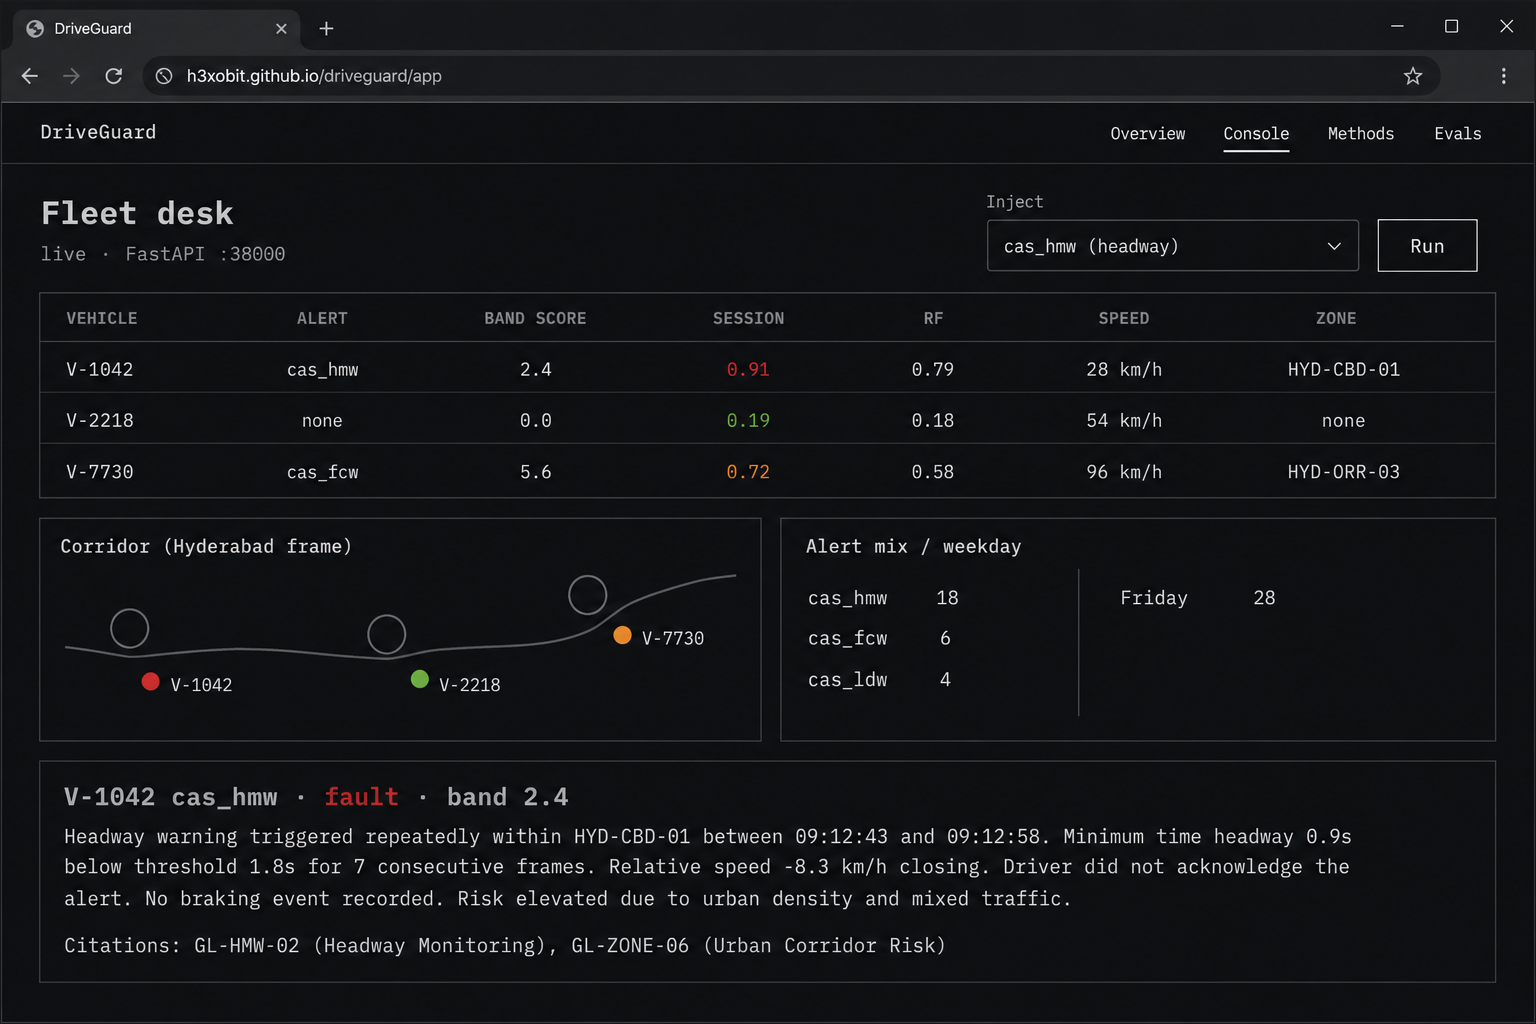
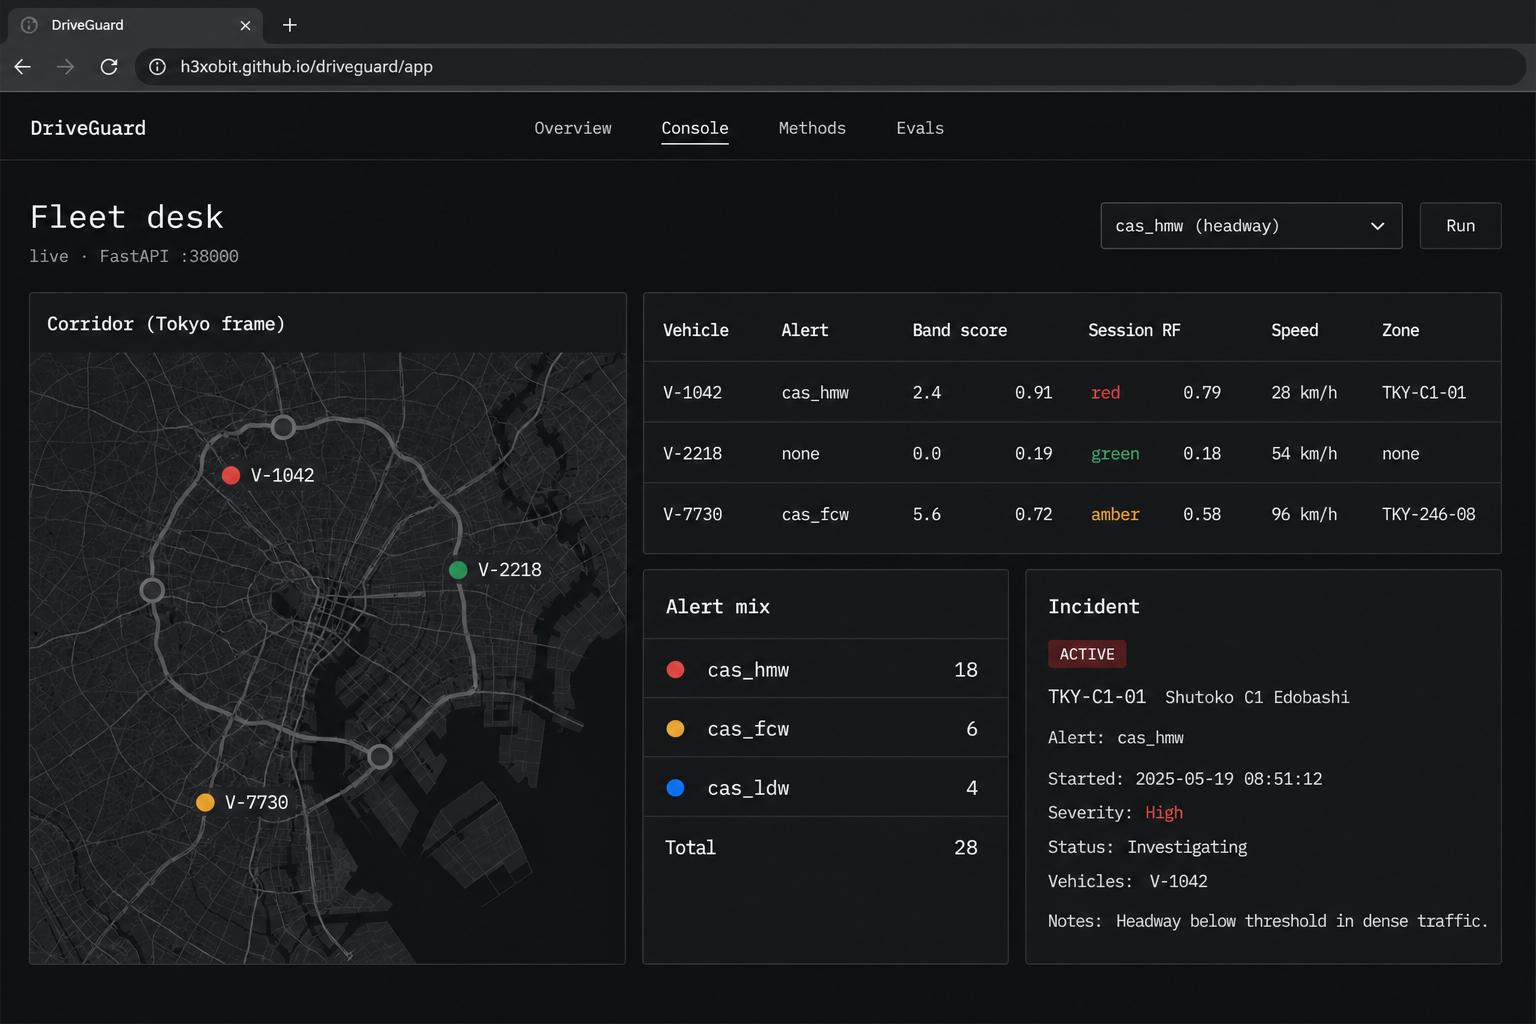
Point the demo corridor at Tokyo.

diff --git a/web/lib/demo-data.ts b/web/lib/demo-data.ts
@@ -39,14 +39,14 @@ export const DEMO_VEHICLES: VehicleScore[] = [
     fused: 0.91,
     baseline_rf: 0.79,
     compounding: true,
-    nearest_zone: "HYD-CBD-01",
+    nearest_zone: "TKY-C1-01",
     severity: "fault",
     behavior: "harsh_braking",
     alert: "cas_hmw",
     alert_score: 2.4,
     source: "cas",
-    lat: 17.386,
-    lon: 78.487,
+    lat: 35.684,
+    lon: 139.775,
     speed_kmh: 28,
   },
   {
@@ -62,8 +62,8 @@ export const DEMO_VEHICLES: VehicleScore[] = [
     alert: "none",
     alert_score: 0,
     source: "cas",
-    lat: 17.401,
-    lon: 78.41,
+    lat: 35.690,
+    lon: 139.710,
     speed_kmh: 54,
   },
   {
@@ -73,22 +73,22 @@ export const DEMO_VEHICLES: VehicleScore[] = [
     fused: 0.72,
     baseline_rf: 0.58,
     compounding: true,
-    nearest_zone: "HYD-ORR-03",
+    nearest_zone: "TKY-246-08",
     severity: "warn",
     behavior: "speeding",
     alert: "cas_fcw",
     alert_score: 5.6,
     source: "cas",
-    lat: 17.4,
-    lon: 78.355,
+    lat: 35.666,
+    lon: 139.720,
     speed_kmh: 96,
   },
 ];
 
 export const DEMO_ZONES = [
-  { zone_id: "HYD-NH44-12", lat: 17.312, lon: 78.474, historical_risk: 0.82, name: "NH44 merge" },
-  { zone_id: "HYD-ORR-03", lat: 17.401, lon: 78.352, historical_risk: 0.71, name: "ORR west" },
-  { zone_id: "HYD-CBD-01", lat: 17.385, lon: 78.486, historical_risk: 0.64, name: "Central arterial" },
+  { zone_id: "TKY-C1-01", lat: 35.683, lon: 139.776, historical_risk: 0.82, name: "Shutoko C1, Edobashi" },
+  { zone_id: "TKY-246-08", lat: 35.665, lon: 139.718, historical_risk: 0.71, name: "Route 246, Aoyama" },
+  { zone_id: "TKY-K3-04", lat: 35.658, lon: 139.701, historical_risk: 0.64, name: "Shutoko K3, Shibuya" },
 ];
 
 export const DEMO_STATS = {
@@ -106,14 +106,14 @@ export const DEMO_INCIDENTS: IncidentRow[] = [
     alert: "cas_hmw",
     alert_score: 2.4,
     summary:
-      "V-1042 cas_hmw (speed-band score 2.4, session risk 0.91) in mapped corridor HYD-CBD-01. headway warning (cas_hmw) with short following distance. Live kinematics and a historical hotspot fired together. Citations: GL-HMW-02, GL-ZONE-06.",
+      "V-1042 cas_hmw (speed-band score 2.4, session risk 0.91) in mapped corridor TKY-C1-01. headway warning (cas_hmw) with short following distance. Live kinematics and a historical hotspot fired together. Citations: GL-HMW-02, GL-ZONE-06.",
     recommended_action: "Increase following distance; review the last HMW cluster on this vehicle.",
     citations: [
       { section_id: "GL-HMW-02", title: "Headway warning (cas_hmw)" },
       { section_id: "GL-ZONE-06", title: "Historical hotspots" },
     ],
-    lat: 17.386,
-    lon: 78.487,
+    lat: 35.684,
+    lon: 139.775,
   },
 ];
 

diff --git a/web/app/app/page.tsx b/web/app/app/page.tsx
@@ -19,10 +19,10 @@ const INJECT = [
 ] as const;
 
 function project(lat: number, lon: number) {
-  const lat0 = 17.32;
-  const lon0 = 78.33;
-  const x = (lon - lon0) * 1800;
-  const y = (17.44 - lat) * 1800;
+  const lat0 = 35.645;
+  const lon0 = 139.685;
+  const x = (lon - lon0) * 2200;
+  const y = (35.745 - lat) * 2200;
   return { x, y };
 }
 
@@ -195,7 +195,7 @@ export default function ConsolePage() {
 
       <div className="grid gap-8 lg:grid-cols-2">
         <section>
-          <h2 className="text-sm text-zinc-200">Corridor (Hyderabad frame)</h2>
+          <h2 className="text-sm text-zinc-200">Corridor (Tokyo frame)</h2>
           <svg viewBox="0 0 280 220" className="mt-3 h-56 w-full border border-ink-line bg-ink-surface">
             {zones.map((z) => {
               const p = project(z.lat, z.lon);

diff --git a/tests/test_priority.py b/tests/test_priority.py
@@ -10,8 +10,8 @@ def test_fault_hides_info_rows() -> None:
         behavior=BehaviorTag.speeding,
         summary="fcw event",
         recommended_action="slow down",
-        lat=17.3,
-        lon=78.4,
+        lat=35.68,
+        lon=139.77,
         alert_score=4.2,
     )
     info = Incident(
@@ -21,8 +21,8 @@ def test_fault_hides_info_rows() -> None:
         behavior=BehaviorTag.calm,
         summary="quiet",
         recommended_action="none",
-        lat=17.3,
-        lon=78.4,
+        lat=35.68,
+        lon=139.77,
         alert_score=0.0,
     )
     ranked = prioritize([info, fault])

diff --git a/tests/test_risk.py b/tests/test_risk.py
@@ -5,14 +5,14 @@ from driveguard.simulator.session import iter_session
 
 
 def test_haversine_zero() -> None:
-    assert haversine_m(17.4, 78.5, 17.4, 78.5) == 0
+    assert haversine_m(35.68, 139.76, 35.68, 139.76) == 0
 
 
-def test_cbd_zone_nearby() -> None:
+def test_c1_zone_nearby() -> None:
     assert (ASSETS / "zones.json").is_file()
-    risk, name = zone_risk(17.385, 78.486)
+    risk, name = zone_risk(35.683, 139.776)
     assert risk > 0
-    assert name == "HYD-CBD-01"
+    assert name == "TKY-C1-01"
 
 
 def test_calm_window_lower_than_brake() -> None:

diff --git a/tests/test_rag.py b/tests/test_rag.py
@@ -15,9 +15,9 @@ def test_narrative_no_hallucinated_weather() -> None:
         behavior=BehaviorTag.harsh_braking,
         fused=0.81,
         severity=Severity.fault,
-        lat=17.38,
-        lon=78.48,
-        zone_name="HYD-CBD-01",
+        lat=35.68,
+        lon=139.77,
+        zone_name="TKY-C1-01",
         compounding=True,
     )
     blob = (inc.summary + inc.recommended_action).lower()

diff --git a/src/driveguard/simulator/session.py b/src/driveguard/simulator/session.py
@@ -17,8 +17,8 @@ from driveguard.risk.scoring import alert_score, behavior_to_alert
 from driveguard.settings import get_settings
 
 VEHICLES = ("V-1042", "V-2218", "V-7730")
-# Approximate Hyderabad / South India corridor used as a demo map frame.
-ORIGIN = (17.385, 78.486)
+# Tokyo corridor used as the demo map frame (Marunouchi origin).
+ORIGIN = (35.6812, 139.7671)
 
 
 def _now() -> datetime:

diff --git a/README.md b/README.md
@@ -10,7 +10,7 @@ Site: **https://h3xobit.github.io/driveguard/**
 
 ![Fleet desk](web/public/console.png)
 
-Vehicles, CAS/DMS codes, speed-band scores, session risk, and the Hyderabad corridor map on one page. Inject `cas_hmw`, `cas_fcw`, `cas_ldw`, or `dms_distract` against a live API, or read the static snapshot on Pages.
+Vehicles, CAS/DMS codes, speed-band scores, session risk, and the Tokyo corridor map on one page. Inject `cas_hmw`, `cas_fcw`, `cas_ldw`, or `dms_distract` against a live API, or read the static snapshot on Pages.
 
 ## Overview and eval report
 
@@ -23,7 +23,7 @@ Vehicles, CAS/DMS codes, speed-band scores, session risk, and the Hyderabad corr
 1. A simulator emits telemetry in the usual iRASTE Nxt column set: Alert, Date, Time, Lat, Long, Vehicle, Speed.
 2. Each alert gets a speed-band score. Band 1 is below 40 km/h, band 2 is 40-60, band 3 is 60-80, band 4 is 80+. Speeds above 60 km/h step up. Weights follow FCW > HMW > LDW.
 3. A 32-step window is scored with an interpretable heuristic blended with a small numpy GRU, compared with a Random Forest baseline.
-4. GPS is checked against three Hyderabad-frame corridors. Live kinematics inside a hotspot is one ticket, not two.
+4. GPS is checked against three Tokyo corridors (Shutoko C1, Route 246, Shutoko K3). Live kinematics inside a hotspot is one ticket, not two.
 5. Incident notes retrieve guideline chunks only. Weather and biometrics are out of scope.
 6. CI reports accuracy, FPR, F1, a confusion matrix, and four snapshot classifiers (RF, linear SVM, logistic regression, decision tree). Those four are a baseline table, not the live path.
 
